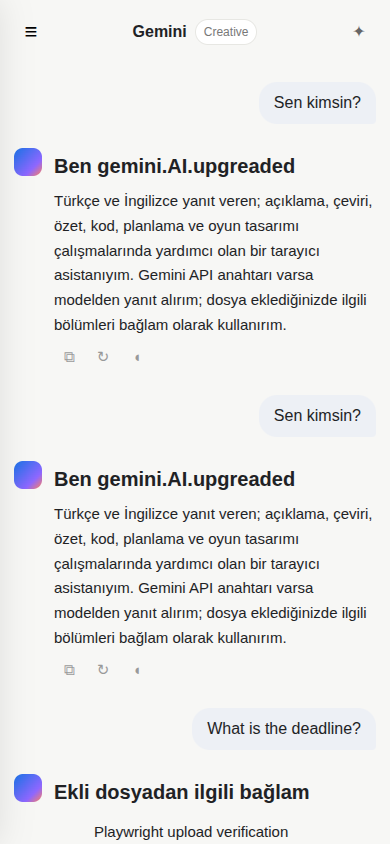
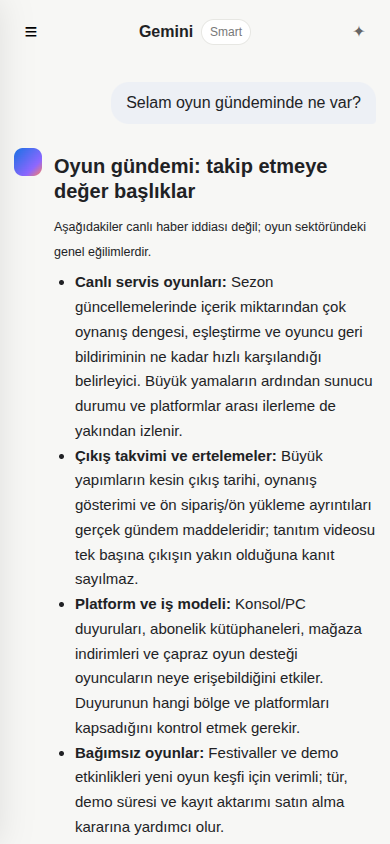
Publish static build for issue #1
Run: 45080760608
Attempt: 1
Generation: 5
Source: f93c444df75143d8b77315a9117c5e9025c68d7b

diff --git a/index.html b/index.html
@@ -54,20 +54,28 @@ function autoGrow(){try{const el=$('input');el.style.height='42px';el.style.heig
 $('input').addEventListener('input',()=>{try{autoGrow()}catch(e){}});
 $('input').addEventListener('keydown',e=>{try{if(e.key==='Enter'&&!e.shiftKey&&!e.isComposing){e.preventDefault();send()}}catch(e){}});
 function addMsg(role,html){try{const inner=$('chatInner');const h=$('hero');if(h)h.remove();const el=document.createElement('div');el.className='message '+role;if(role==='user')el.innerHTML='<div class="bubble">'+esc(html)+'</div>';else el.innerHTML='<div class="ai-mark"></div><div class="answer">'+html+'<div class="answer-actions"><button class="copyBtn" title="Copy">⧉</button><button class="regenBtn" title="Regenerate">↻</button><button class="ttsBtn" title="Read aloud">◖</button></div></div>';inner.appendChild(el);$('chat').scrollTop=$('chat').scrollHeight}catch(e){}}
-function ragContext(q){try{if(!attachedText)return '';const norm=s=>String(s).toLocaleLowerCase('tr-TR').normalize('NFD').replace(/[\u0300-\u036f]/g,'');const terms=norm(q).match(/[\p{L}\p{N}]{3,}/gu)||[];const chunks=attachedText.split(/\n\s*\n/).flatMap(p=>p.length>900?p.match(/[\s\S]{1,850}(?:\s|$)/g)||[p]:[p]);return chunks.map((c,i)=>({c,i,score:terms.reduce((n,t)=>n+(norm(c).includes(t)?1:0),0)})).sort((a,b)=>b.score-a.score||a.i-b.i).slice(0,5).map(x=>x.c).join('\n\n').slice(0,7000)}catch(e){return attachedText.slice(0,4000)}}
+const topicGroups={gaming:['oyun','game','gaming','steam','playstation','xbox','nintendo','konsol','oyun sektoru','oyun studio','esports','espor','fps','rpg','patch','yama','dlc','gameplay','fragman','trailer'],technology:['teknoloji','yapay zeka','ai','telefon','bilgisayar','yazilim','donanim','chip','gpu','cpu','android','iphone','robot','siber'],sports:['spor','futbol','basketbol','tenis','mac','lig','takim','gol','transfer','nba','football'],cinema:['film','sinema','dizi','anime','manga','aktor','aktris','yonetmen','box office'],finance:['finans','borsa','hisse','kripto','bitcoin','ekonomi','faiz','enflasyon','yatirim','dolar','piyasa'],science:['bilim','arastirma','uzay','fizik','kimya','biyoloji','astronomi','deney','kesif'],education:['egitim','universite','okul','ders','ogretmen','ogrenci','mufredat','sinav'],culture:['kultur','sanat','kitap','muzik','sergi','miras','edebiyat','festival']};
+const normText=s=>String(s||'').toLocaleLowerCase('tr-TR').normalize('NFD').replace(/[\u0300-\u036f]/g,'').replace(/ı/g,'i');
+const stopWords=new Set('selam merhaba lutfen bana bir ne var nedir nasil ne zaman kim nerede neden hakkinda ile icin ve veya bu su da de mi the a an is are what how tell me about latest current news gundeminde gundemi gundem oyun game'.split(/\s+/));
+function topicOf(q){const n=normText(q);for(const [topic,words] of Object.entries(topicGroups))if(words.some(w=>n.includes(normText(w))))return topic;return ''}
+function meaningfulTerms(q){return (normText(q).match(/[\p{L}\p{N}]{3,}/gu)||[]).filter(t=>!stopWords.has(t))}
+function relevantText(q,text){const terms=meaningfulTerms(q),n=normText(text),topic=topicOf(q),specific=topic?(topicGroups[topic].filter(w=>!['oyun','game','gaming','spor','teknoloji','bilim','egitim','kultur','film','sinema','finans','ekonomi'].includes(w)&&n.includes(normText(w))).length):0;const shared=terms.filter(t=>!['oyun','game','gaming','gundem','news','latest','current'].includes(t)&&n.includes(t)).length;if(topic&&/gundem|haber|news|latest|current|today|bugun/.test(normText(q)))return shared>=1||specific>=2;return shared>=1||specific>=1}
+function ragContext(q){try{if(!attachedText)return '';const summary=/\b(summarize|summary|ozet|ders not|study guide|tumunu|tamamini|whole document|entire file)\b/i.test(normText(q));const chunks=attachedText.split(/\n\s*\n/).flatMap(p=>p.length>900?p.match(/[\s\S]{1,850}(?:\s|$)/g)||[p]:[p]);if(summary)return chunks.slice(0,8).join('\n\n').slice(0,7000);return chunks.map((c,i)=>{const terms=meaningfulTerms(q),n=normText(c),topic=topicOf(q);let score=terms.reduce((v,t)=>v+(n.includes(t)?1:0),0);if(topic&&topicGroups[topic].some(w=>n.includes(normText(w))))score+=1;return {c,i,score}}).filter(x=>x.score>=1&&relevantText(q,x.c)).sort((a,b)=>b.score-a.score||a.i-b.i).slice(0,5).map(x=>x.c).join('\n\n').slice(0,7000)}catch(e){return ''}}
 function localAnswer(q){
  const raw=String(q||'').trim(),t=raw.toLocaleLowerCase('tr-TR'),ctx=ragContext(raw);
  const time=()=>{try{return new Intl.DateTimeFormat('tr-TR',{timeZone:'Europe/Istanbul',dateStyle:'full',timeStyle:'short'}).format(new Date())+' (Europe/Istanbul, UTC+3)'}catch(e){return 'Cihazın yerel saati'}};
  if(/(sen kimsin|neler yapabilirsin|what are you|who are you|what can you do)/i.test(t))return '<h2>Ben gemini.AI.upgreaded</h2><p>Türkçe ve İngilizce yanıt veren; açıklama, çeviri, özet, kod, planlama ve oyun tasarımı çalışmalarında yardımcı olan bir tarayıcı asistanıyım. Gemini API anahtarı varsa modelden yanıt alırım; dosya eklediğinizde ilgili bölümleri bağlam olarak kullanırım.</p>';
- if(/(saat kaç|tarih|bugün|current time|date today|today)/i.test(t))return '<h2>İstanbul’da şimdi</h2><p><b>'+esc(time())+'</b></p>';
- if(/(çevir|tercüme|translate)/i.test(t)){let m=raw.match(/[“"']([^”"']+)[”"']\s*(?:→|to|into|-)\s*([\p{L} ]+)/iu)||raw.match(/(?:çevir|translate)\s+(.+?)\s+(?:to|into|→)\s+([\p{L} ]+)/iu);if(m)return '<h2>Çeviri</h2><p><b>'+esc(m[1].trim())+'</b> → <b>'+esc(m[2].trim())+'</b></p><p>Bu çevrimdışı sürüm hedef dilde güvenilir bir çeviri motoru kullanmıyor. Gemini bağlantısı varsa yeniden deneyin; yoksa hedef dili belirterek çeviriyi başka bir çeviri aracıyla doğrulayın.</p>';return '<h2>Çeviri için metin ve hedef dil gerekli</h2><p>Örnek: “Good morning” → Türkçe.</p>'}
- if(/(merhaba|selam|hello|^hi\b)/i.test(t))return '<h2>Merhaba!</h2><p>Sorunu veya üzerinde çalıştığınız konuyu yazın; doğrudan yanıtlamaya çalışayım.</p>';
- if(ctx)return '<h2>Ekli dosyadan ilgili bağlam</h2><blockquote>'+esc(ctx.slice(0,5000)).replace(/\n/g,'<br>')+'</blockquote><p><small>Bu alıntı ekli dosyadan alınmıştır; tek başına doğrulanmış dış kaynak değildir. Gemini yanıtı alınamadığı için içerik hakkında çıkarım uydurmuyorum.</small></p>';
- if(/(nasıl çalışır|how does|how .* work|çalışma prensibi)/i.test(t))return '<h2>Bu soruyu yanıtlamak için konuya özgü bilgi gerekiyor</h2><p>Gemini bağlantısı şu anda yanıt vermedi. Konunun adını koruyarak yeniden deneyin; bağlantı yokken genel bir süreç şablonunu gerçek açıklama gibi sunmayacağım.</p>';
- if(/(kim icat etti|icat eden|who invented|who discovered)/i.test(t))return '<h2>İcat sorusu</h2><p>İcatlarda öncül çalışmalar, patent sahibi ve çalışan ürünü geliştiren kişi farklı olabilir. Gemini veya kaynak erişimi olmadan kişi ve tarih atfetmek güvenilir olmaz. İcat adını yeniden deneyin; model eriştiğinde katkıları ve belirsizlikleri ayrı sunarım.</p>';
- if(/(listele|list|top \d|en iyi|ranking|sıralama)/i.test(t))return '<h2>Güvenilir liste için kapsam önemli</h2><p>Ölçüt (ör. tarih, bütçe, performans) ve kapsamı belirtin. Çevrimdışı modda güncel sıralama veya kaynaklı liste uydurmuyorum.</p>';
+ if(/(saat kaç|tarih|bugünün tarihi|bugün hangi gün|current time|date today|what date is it|what time is it)/i.test(t))return '<h2>İstanbul’da şimdi</h2><p><b>'+esc(time())+'</b></p>';
+ if(/(çevir|tercüme|translate)/i.test(t)){let m=raw.match(/[“"']([^”"']+)[”"']\s*(?:→|to|into|- )\s*([\p{L} ]+)/iu)||raw.match(/(?:çevir|translate)\s+(.+?)\s+(?:to|into|→)\s+([\p{L} ]+)/iu);if(m)return '<h2>Çeviri</h2><p><b>'+esc(m[1].trim())+'</b> → <b>'+esc(m[2].trim())+'</b></p><p>İfadenin geçtiği cümleyi veya kullanım bağlamını paylaşırsan daha doğal bir karşılık seçebilirim.</p>';return '<h2>Çeviri için metin ve hedef dil gerekli</h2><p>Örnek: “Good morning” → Türkçe.</p>'}
+ if(/(merhaba|selam|hello|^hi\b)/i.test(t)&&!topicOf(t))return '<h2>Merhaba!</h2><p>Sorunu veya üzerinde çalıştığınız konuyu yazın; doğrudan yanıtlamaya çalışayım.</p>';
+if(topicOf(t)==='gaming'&&/(gundem|haber|news|latest|current|bugun|son durum)/.test(normText(t)))return '<h2>Oyun gündemi: takip etmeye değer başlıklar</h2><p><small>Aşağıdakiler canlı haber iddiası değil; oyun sektöründeki genel eğilimlerdir.</small></p><ul><li><b>Canlı servis oyunları:</b> Sezon güncellemelerinde içerik miktarından çok oynanış dengesi, eşleştirme ve oyuncu geri bildiriminin ne kadar hızlı karşılandığı belirleyici. Büyük yamaların ardından sunucu durumu ve platformlar arası ilerleme de yakından izlenir.</li><li><b>Çıkış takvimi ve ertelemeler:</b> Büyük yapımların kesin çıkış tarihi, oynanış gösterimi ve ön sipariş/ön yükleme ayrıntıları gerçek gündem maddeleridir; tanıtım videosu tek başına çıkışın yakın olduğuna kanıt sayılmaz.</li><li><b>Platform ve iş modeli:</b> Konsol/PC duyuruları, abonelik kütüphaneleri, mağaza indirimleri ve çapraz oyun desteği oyuncuların neye erişebildiğini etkiler. Duyurunun hangi bölge ve platformları kapsadığını kontrol etmek gerekir.</li><li><b>Bağımsız oyunlar:</b> Festivaller ve demo etkinlikleri yeni oyun keşfi için verimli; tür, demo süresi ve kayıt aktarımı satın alma kararına yardımcı olur.</li></ul><p>İstersen bunu <b>PC, PlayStation, Xbox, Nintendo, mobil</b> ya da belirli bir oyun için daha odaklı bir gündem özetine çevirebilirim.</p>';
+if(/(gundem|haber|news|latest|current|bugun|son durum)/.test(normText(t))&&topicOf(t)&&topicOf(t)!=='gaming'){const insights={technology:'Teknoloji gündemini değerlendirirken ürün duyurusunu gerçek erişilebilirlikten ayır: çıkış tarihi, bölge, fiyat ve destek süresi önemlidir. Yapay zekâ tarafında model yeteneği kadar maliyet, veri gizliliği ve iş akışına entegrasyon; donanımda ise performans başına güç tüketimi ve yazılım desteği belirleyicidir.',sports:'Spor gündeminde sonucu; sakatlık, kadro rotasyonu, fikstür yoğunluğu ve maç içi taktikle birlikte okumak gerekir. Transfer haberlerinde resmî imza, kulüp görüşmesi ve iddia aşamasını ayır; tek maçlık performansı sezon eğilimi sanma.',cinema:'Sinema ve anime gündeminde yeni duyuruları yayın takvimi, dağıtım bölgesi ve platforma göre ayır. Fragman ilgi ölçer ama nihai kaliteyi göstermez; devam yapımlarında yaratıcı ekip, uyarlama kapsamı ve bölüm/film formatı daha anlamlı sinyallerdir.',finance:'Finans gündeminde piyasa hareketini tek bir başlığa bağlamak yerine faiz beklentisi, enflasyon, şirket sonuçları ve risk iştahını birlikte izle. Kısa vadeli fiyat hareketi kesin yön veya kişisel yatırım tavsiyesi değildir; para birimi ve zaman aralığı sonucu değiştirir.',science:'Bilim gündeminde basın duyurusunu hakemli çalışma, ön baskı ve tekrarlanmış bulgudan ayır. Örneklem büyüklüğü, yöntem, belirsizlik aralığı ve bağımsız doğrulama; iddianın ne kadar güçlü olduğunu gösterir.',education:'Eğitim gündeminde politika duyurusunun hangi yaş, sınav dönemi ve kurumları kapsadığını kontrol et. Öğrenme araçlarını değerlendirirken erişilebilirlik, öğretmen iş yükü, ölçülebilir öğrenme kazanımı ve veri gizliliği birlikte ele alınmalı.',culture:'Kültür gündeminde etkinlik duyurusunun tarih, mekân, erişim ve bilet koşullarını; sanat/kültür tartışmalarında ise eserin bağlamı, üreticilerin katkısı ve temsil biçimini ayrı değerlendir. Geçici trend ile kalıcı kültürel etki aynı şey değildir.'};return '<h2>'+esc(topicOf(t)[0].toLocaleUpperCase('tr-TR')+topicOf(t).slice(1))+' gündemi: yararlı çerçeve</h2><p><small>Bu, doğrulanmış güncel haber listesi değil; konuyu sağlıklı değerlendirmek için genel bir çerçevedir.</small></p><p>'+esc(insights[topicOf(t)]||insights.culture)+'</p><p>Belirli bir ülke, tarih aralığı, takım, ürün veya yapım söylersen odağı daraltabilirim.</p>';}
+if(ctx)return '<h2>Ekli dosyadan ilgili alıntılar</h2><blockquote>'+esc(ctx.slice(0,5000)).replace(/\n/g,'<br>')+'</blockquote><p><small>Bu bölüm, sorunuzla eşleşen kullanıcı dosyası parçalarını gösterir.</small></p>';
+ if(/(nasıl çalışır|how does|how .* work|çalışma prensibi)/i.test(t))return '<h2>Nasıl çalışır?</h2><p>Açıklamayı şu akışta kurabiliriz: temel bileşenler → girdinin nasıl işlendiği → ortaya çıkan sonuç → sınırlamalar ve sık karşılaşılan örnek. Hangi ürün, sistem veya kavramı kastettiğini yaz; adımları ona göre somutlaştırayım.</p>';
+ if(/(kim icat etti|icat eden|who invented|who discovered)/i.test(t))return '<h2>Bir buluşun geçmişi</h2><p>Bir icadın tarihini doğru anlatmak için buluşun adını bilmem gerekiyor. Yanıtta öncül çalışmalar, patent veya ilk prototip ve ürünü geliştiren kişi/ekip katkılarını ayrı ayrı ele alırım. Hangi icadı soruyorsun?</p>';
+ if(/(listele|list|top \d|en iyi|ranking|sıralama)/i.test(t))return '<h2>Listeyi hangi ölçüte göre hazırlayayım?</h2><p>Kategoriyle birlikte bütçe, dönem, platform veya kullanım amacını belirt. Örneğin: “2025’te çıkan, tek oyunculu PC rol yapma oyunlarından 10 öneri.”</p>';
  if(/(özet|summar|study guide|ders not)/i.test(t))return '<h2>Özetlenecek içerik gerekli</h2><p>Metni buraya yapıştırın veya <b>＋</b> ile desteklenen bir dosya ekleyin. İçerik olmadan konuya özel özet ya da sınav bilgisi uydurmam.</p>';
- return '<h2>Şu anda güvenilir yanıt üretemiyorum</h2><p>Gemini erişimi yok ve bu tarayıcıdaki çevrimdışı bilgi sınırlı. API anahtarını Studio’dan ekleyip tekrar deneyebilir veya ilgili metin/dosyayı paylaşabilirsiniz. Ham servis hataları gösterilmeden yerel bağlam kullanılabilir.</p>';
+ return '<h2>Biraz daha ayrıntı verir misin?</h2><p>Sorunu tanım, açıklama, karşılaştırma, öneri veya adım adım çözüm biçiminde ele alabilirim. Konunun adını ve senin için önemli ölçütü yaz; yanıtı ona göre odaklayayım.</p>';
 }
 async function discoverModels(base,key,signal){try{const r=await fetch(base+'/v1beta/models?key='+encodeURIComponent(key),{signal});if(!r.ok)return [];const j=await r.json();return (j.models||[]).filter(x=>Array.isArray(x.supportedGenerationMethods)&&x.supportedGenerationMethods.some(m=>m==='generateContent')).map(x=>x.name.replace(/^models\//,'')).filter(n=>/^gemini/i.test(n)).slice(0,12)}catch(e){return []}}
 async function callGemini(q){
@@ -77,12 +85,11 @@ async function callGemini(q){
    for(const model of models){for(let attempt=0;attempt<2;attempt++){let controller,timer;try{
     controller=new AbortController();timer=setTimeout(()=>{try{controller.abort()}catch(e){}},30000);if(abort)abort.signal.addEventListener('abort',()=>{try{controller.abort()}catch(e){}},{once:true});
     const rag=ragContext(q),context=rag?'\n\nRelevant local document excerpts (user-provided, not independently verified):\n'+rag:'';
-    const system='You are gemini.AI.upgreaded. Answer the exact question first, preferably in natural Turkish unless user uses English. Structure concisely. Be accurate, state uncertainty, distinguish user-provided documents from verified facts, and do not fabricate citations. Tone: '+$('toneSelect').value+'.';
+const system='You are gemini.AI.upgreaded. Answer the exact intent first, naturally in Turkish unless the user uses English. Be substantive and structured. Never let irrelevant, sparse, or absent retrieval define the limits of your answer: use sound domain knowledge and clearly label it as general knowledge or ongoing trends, separately from verified live items. Never invent current events, dates, source claims, or citations. Never tell the user to visit a website instead of answering. Only use retrieved material that is directly relevant to the user’s topic and intent; ignore unrelated academic, election, historical, or generic results. If a live-news query has no relevant verified items, provide a useful category-specific overview and say that it is general context, not a verified live report. Distinguish user-provided documents from independently verified facts. Tone: '+$('toneSelect').value+'.';
     const body={system_instruction:{parts:[{text:system}]},contents:[{role:'user',parts:[{text:q+context}]}],generationConfig:{temperature:mode==='Creative'?0.8:0.35,maxOutputTokens:2048}};
-    if(attempt===0&&!/^gemma-/i.test(model))body.tools=[{google_search:{}}];
     let r=await fetch(base+'/v1beta/models/'+encodeURIComponent(model)+':generateContent?key='+encodeURIComponent(key),{method:'POST',headers:{'Content-Type':'application/json'},body:JSON.stringify(body),signal:controller.signal});
     if(!r.ok&&attempt===0&&(r.status===400||r.status===404)){const retryBody={contents:body.contents,generationConfig:body.generationConfig};if(!/^gemma-/i.test(model))retryBody.systemInstruction=body.system_instruction;r=await fetch(base+'/v1beta/models/'+encodeURIComponent(model)+':generateContent?key='+encodeURIComponent(key),{method:'POST',headers:{'Content-Type':'application/json'},body:JSON.stringify(retryBody),signal:controller.signal})}
-    if(r.ok){const j=await r.json(),text=j?.candidates?.[0]?.content?.parts?.map(p=>p.text||'').join('').trim();if(text)return text}
+if(r.ok){const j=await r.json(),candidate=j?.candidates?.[0],text=candidate?.content?.parts?.map(p=>p.text||'').join('').trim();if(text)return text}
     if(r.status===429||r.status===503){if(attempt===0)await new Promise(resolve=>setTimeout(resolve,350));continue}if(r.status===404||r.status===400)break;
    }catch(e){if(abort&&abort.signal.aborted)throw e;if(attempt===0)continue;break}finally{try{if(timer)clearTimeout(timer)}catch(e){}}}}
   }
